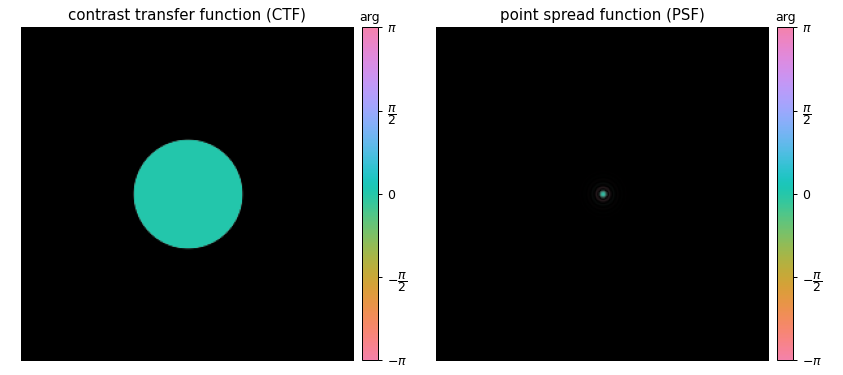
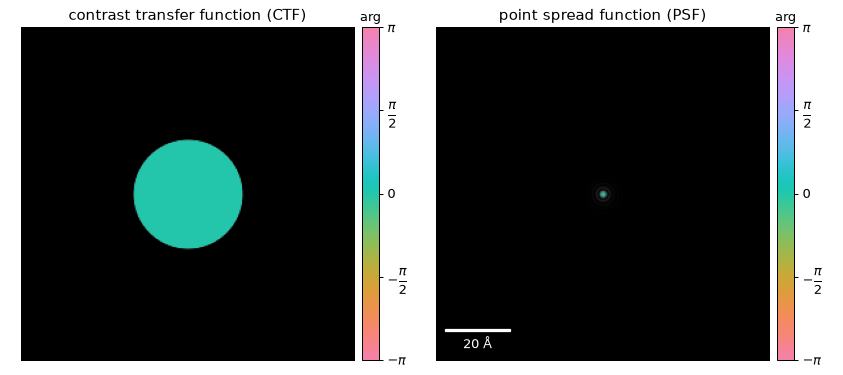
Update interactive figures for referee comments
- CTF/PSF widget: 20 A scale bar on the PSF, named aberration sliders,
  and sliders for two-fold astigmatism, coma, trefoil and C5
- Au TEM imaging widget: defocus slider (starts at Scherzer, fixed
  aperture) and 4x4 unit cell tiling; fix off-by-one at the last
  thickness step
- STEM convergence widget: fourth-root intensity scaling so graphene
  Bragg disks are visible; squeeze the scan axis, which abTEM 1.0.9
  keeps (the notebook crashed without this)
- 2D FFT widget: phase colorwheel legend, remove the TODO, and shift
  only the image axes so the RGB channels are no longer rolled
- Regenerate the affected placeholder images and describe the new
  controls in the text

diff --git a/TEM.md b/TEM.md
@@ -39,7 +39,9 @@ In [](#fig_tem_Au_potential_wave_image) we show an interactive visualization of 
 
 In [](#fig_tem_Au_potential_wave_image), we start with no potential and correspondingly the exit wave is flat and has no features. As the thickness of the gold sample increases, so does the potential, which is why we see increased contrast in the left panel. The corresponding exit wave calculated from the multislice simulation is shown in the middle. We are visualizing the intensity of the exit wave (more information about phase in [](#id-tem-phase)). The relationship between the exit wave and thickness is not linear as in the case of the potential, so you will see oscillations as the thickness changes.
 
-Finally the right panel shows the resulting image from this simulation. To describe a parallel illumination TEM experiment, we use a plane wavefunction with an energy of $200 \ \mathrm{keV}$. For the CTF, the spherical aberration will be set to $-20~\mu \mathrm{m}$ (remember that *ab*TEM uses units of $\mathrm{Å}$) and the defocus is set to the [Scherzer defocus](https://en.wikipedia.org/wiki/High-resolution_transmission_electron_microscopy). The aperture is set at the first zero cross-over of the CTF, and a focal spread of $10 \ \mathrm{Å}$ is applied as an easy way to model realistic blurring of the image. 
+Finally the right panel shows the resulting image from this simulation. To describe a parallel illumination TEM experiment, we use a plane wavefunction with an energy of $200 \ \mathrm{keV}$. For the CTF, the spherical aberration will be set to $-20~\mu \mathrm{m}$ (remember that *ab*TEM uses units of $\mathrm{Å}$) and the defocus is set to the [Scherzer defocus](https://en.wikipedia.org/wiki/High-resolution_transmission_electron_microscopy). The aperture is set at the first zero cross-over of the CTF, and a focal spread of $10 \ \mathrm{Å}$ is applied as an easy way to model realistic blurring of the image. All three panels show $4 \times 4$ unit cells, which we tile after the simulation since the specimen is periodic.
+
+The defocus slider in [](#fig_tem_Au_potential_wave_image) shows how sensitive HRTEM images are to the choice of defocus. Depending on the defocus and the thickness, the atomic columns can appear as bright spots, as dark spots, or with almost no contrast, which is why selecting the correct defocus (for example the Scherzer defocus) is difficult in experiments, and why HRTEM images are usually interpreted by comparing them to simulations. The slider starts at the Scherzer defocus, which is $-87$ Å in the *ab*TEM sign convention for these conditions (overfocus, because we use a negative spherical aberration), and the aperture remains fixed at the Scherzer crossover angle as the defocus changes, as an objective aperture would in an experiment. 
 
 
 ```{figure} #app:tem_Au_potential_wave_image

diff --git a/STEM.md b/STEM.md
@@ -153,7 +153,7 @@ There are myriad possibilities with 4D-STEM, and we refer you to other reference
 ```{figure} #app:stem_convergence
 :name: fig_stem_convergence
 :placeholder: ./static/stem_convergence.png
-Using the slider observe how the separation of Bragg disks and probe size change with convergence angle for graphene. 80 kV simulation.
+Using the slider observe how the separation of Bragg disks and probe size change with convergence angle for graphene. 80 kV simulation. The diffraction pattern intensity is shown with a fourth-root scaling, so that the weak Bragg disks of graphene are visible next to the direct beam.
 ```
 
 For more complex analysis, there are two most common modes for experimental set-up: small and large convergence angle, which can be explored in [](#fig_stem_convergence). Using a small convergence angle leads to large separation between Bragg disks in reciprocal space, which is ideal for orientation and strain experiments. For orientation mapping, the diffraction pattern at each position is compared to a library of patterns from a reference structure to solve for rotation of the crystal. Strain mapping is accomplished by comparing to a reference diffraction pattern and computing  subtle shifts in Bragg disks resulting from structural disorder. The structure of amorphous materials can also be studied with this configuration by computing the radial distribution function. Careful choice of simulation parameters is important for this set-up. The small convergence angle creates a large real space probe size, which requires a large cell to hold the probe. At the same time, the maximum scattering angle needs to be large enough to capture enough Bragg disks for structural identification.

diff --git a/aberrations.md b/aberrations.md
@@ -92,7 +92,7 @@ Below we visualize each aberration by mapping the phase to different colors. We 
 ```
 ````
 
-We can also visualize this interactively as shown in [](#fig_ctf_psf).
+We can also visualize this interactively as shown in [](#fig_ctf_psf), where the sliders control the defocus, two-fold astigmatism, axial coma, three-fold astigmatism, and third- and fifth-order spherical aberration.
 
 ```{figure} #app:ctf_psf
 :name: fig_ctf_psf
